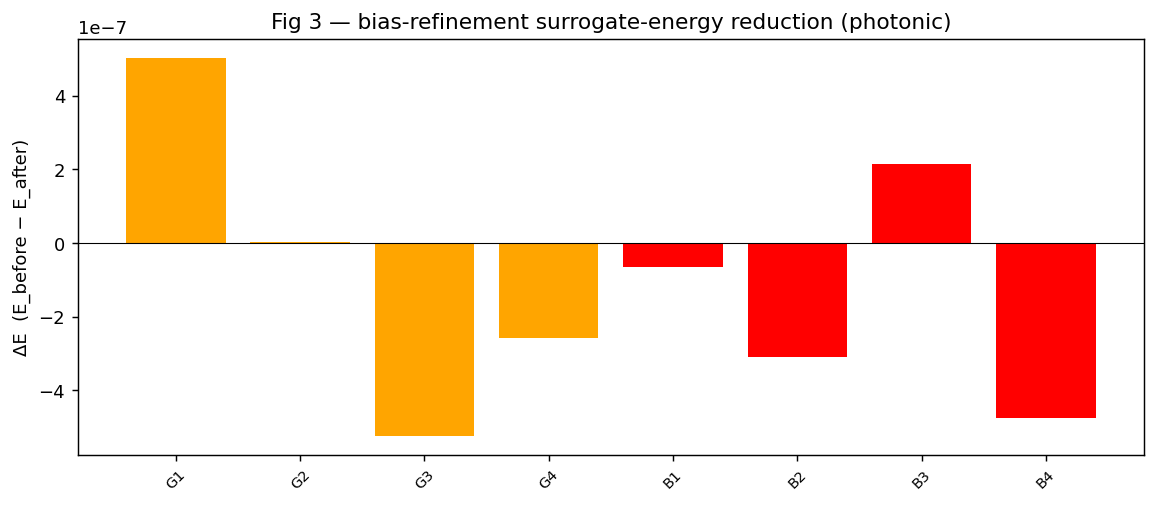
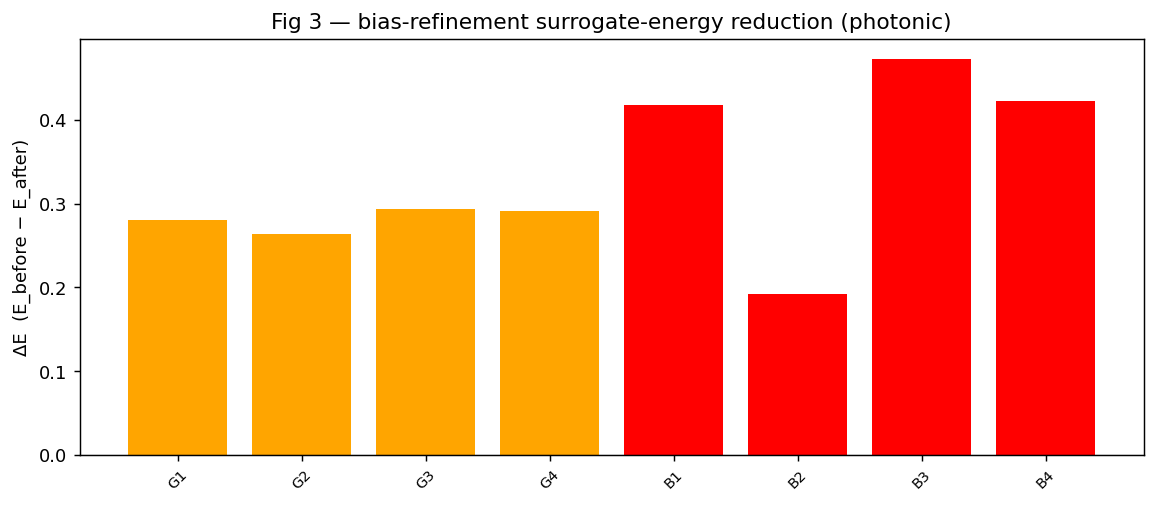
Updates with new egas

diff --git a/papers/EGAS/lib/photonic_circuits.py b/papers/EGAS/lib/photonic_circuits.py
@@ -7,24 +7,34 @@ import perceval as pcvl
 import torch
 import torch.nn as nn
 
-COEFFS = (0.1, 0.3, 0.5, 0.7, 1.0)
+COEFFS = (
+    0.1 * torch.pi,
+    0.3 * torch.pi,
+    0.5 * torch.pi,
+    0.7 * torch.pi,
+    1.0 * torch.pi,
+)
+# Fixed beam-splitter angles selected by EGAS as part of the circuit architecture.
+# Perceval's default BS convention maps these to 75%, 50%, and 25% reflectivity.
+BS_ANGLES = (pi / 3, pi / 2, 2 * pi / 3)
 FIXED_PS_PHASES = {
     "PS_PI": pi,
     "PS_PI_2": pi / 2,
 }
 
 
-def build_token_pool(n_modes: int):
+def build_token_pool(n_modes: int, num_features: int):
     """Enumerate the full token pool C. Returns list of (gate, q, data_idx, r)."""
     tokens = []
     for q in range(n_modes):
-        for d in range(n_modes):
+        for d in range(num_features):
             for r in COEFFS:
                 tokens.append(("PS", q, d, r))
         tokens.append(("PS_PI", q, 0, 0.0))
         tokens.append(("PS_PI_2", q, 0, 0.0))
-    for q in range(n_modes - 1):  # CNOT (q, q+1)
-        tokens.append(("BS", q, 0, 0.0))
+    for q in range(n_modes - 1):
+        for theta in BS_ANGLES:
+            tokens.append(("BS", q, 0, theta))
     return tokens
 
 
@@ -37,7 +47,7 @@ def create_perceval_circuit(
     input_parameters = []
     trainable_parameters = []
 
-    for gate, q, _, _ in sequence:
+    for gate, q, _, value in sequence:
         if gate == "PS":
             input_param = pcvl.Parameter(f"theta{len(input_parameters)}")
             trainable_param = pcvl.Parameter(f"phi{len(trainable_parameters)}")
@@ -49,7 +59,10 @@ def create_perceval_circuit(
         elif gate in FIXED_PS_PHASES:
             circuit.add(q, pcvl.PS(FIXED_PS_PHASES[gate]))
         elif gate == "BS":
-            circuit.add([q, q + 1], pcvl.BS())
+            # ``value`` is a fixed structural angle, not a data-dependent input.
+            # Retain the original 50:50 splitter for legacy sequences stored with 0.0.
+            theta = pi / 2 if value == 0.0 else value
+            circuit.add([q, q + 1], pcvl.BS(theta=theta))
         else:
             raise ValueError(f"Unsupported photonic gate token: {gate}")
     return circuit, input_parameters, trainable_parameters
@@ -135,11 +148,23 @@ def create_quantum_module(
                 hidden = 32
             if gain is None:
                 gain = 10.0
-            self.bias = BiasMLP(
-                n_in=num_features,
-                output_size=len(input_parameters),
-                hidden=hidden,
-                gain=gain,
-            )
+            # Get current device and dtype from the existing bias (or any parameter)
+            try:
+                param = next(self.parameters())
+                device = param.device
+                dtype = param.dtype
+                self.bias = BiasMLP(
+                    n_in=num_features,
+                    output_size=len(input_parameters),
+                    hidden=hidden,
+                    gain=gain,
+                ).to(device=device, dtype=dtype)
+            except:
+                self.bias = BiasMLP(
+                    n_in=num_features,
+                    output_size=len(input_parameters),
+                    hidden=hidden,
+                    gain=gain,
+                )
 
     return QuantumModule()

diff --git a/papers/EGAS/lib/photonic_bias.py b/papers/EGAS/lib/photonic_bias.py
@@ -74,36 +74,29 @@ def refine_bias(
         n_modes=n_modes,
         num_photons=num_photons,
         computation_space=computation_space,
-    )
+    ).to(X.device)
     encoder.reset_bias(hidden=hidden, gain=gain)
     encoder = encoder.to(device)
+
+    def _states_for_energy(inputs: torch.Tensor) -> torch.Tensor:
+        """Embed every sample used to evaluate the pairwise-energy objective."""
+        if len(encoder.ps_data_indices) == 0:
+            # A circuit without data-dependent phases produces one fixed state.
+            state = encoder(torch.zeros(1, 0, dtype=torch.float32, device=device))
+            return state.expand(len(inputs), -1)
+        return encoder(inputs)
+
     trainable_parameters = [p for p in encoder.bias.parameters() if p.requires_grad]
     if len(trainable_parameters) == 0:
         with torch.no_grad():
-            # Evaluate with a single sample and replicate if no input indices
-            dummy_input = (
-                torch.zeros(1, 0, dtype=torch.float32, device=device)
-                if len(encoder.ps_data_indices) == 0
-                else Xt[:1]
-            )
-            states = encoder(dummy_input)
-            if len(encoder.ps_data_indices) == 0:
-                states = states.repeat(len(Xt), 1)
+            states = _states_for_energy(Xt)
             E_before = pairwise_energy(states, yt).item()
         return encoder, E_before, E_before
 
     opt = torch.optim.RMSprop(encoder.bias.parameters(), lr=lr)
 
     with torch.no_grad():
-        # Evaluate with a single sample and replicate if no input indices
-        dummy_input = (
-            torch.zeros(1, 0, dtype=torch.float32, device=device)
-            if len(encoder.ps_data_indices) == 0
-            else Xt[:1]
-        )
-        states = encoder(dummy_input)
-        if len(encoder.ps_data_indices) == 0:
-            states = states.repeat(len(Xt), 1)
+        states = _states_for_energy(Xt)
         E_before = pairwise_energy(states, yt).item()
 
     rng = np.random.default_rng(seed)
@@ -130,14 +123,7 @@ def refine_bias(
         opt.step()
         if ep >= epochs - avg_last:
             with torch.no_grad():
-                dummy_input = (
-                    torch.zeros(1, 0, dtype=torch.float32, device=device)
-                    if len(encoder.ps_data_indices) == 0
-                    else Xt[:1]
-                )
-                states = encoder(dummy_input)
-                if len(encoder.ps_data_indices) == 0:
-                    states = states.repeat(len(Xt), 1)
+                states = _states_for_energy(Xt)
                 recent.append(pairwise_energy(states, yt).item())
     E_after = float(np.mean(recent)) if recent else E_before
     return encoder, E_before, E_after

diff --git a/papers/EGAS/lib/runner.py b/papers/EGAS/lib/runner.py
@@ -98,7 +98,7 @@ def _run_photonic_eval(cfg, run_dir, logger):
         seed=seed,
     )
 
-    pool = build_token_pool(n_modes)
+    pool = build_token_pool(n_modes, X.shape[-1])
 
     # Photonic EGAS search on a fixed sample batch drawn from the first split's train set.
     rng = np.random.default_rng(seed)
@@ -530,12 +530,13 @@ def _run_egas_eval(cfg, run_dir, logger):
     dcfg, ecfg, bcfg, vcfg = cfg["dataset"], cfg["egas"], cfg["bias"], cfg["eval"]
     name = dcfg["name"]
     n_qubits = int(dcfg.get("n_qubits", 8))
-    pool = build_token_pool(n_qubits)
+
     X, y = load_dataset(name, data_root=dcfg["root"], n_components=n_qubits, seed=seed)
     from .data import (
         load_dataset_raw_for_wasserstein,
     )
 
+    pool = build_token_pool(n_qubits, X.shape[-1])
     X_wasser, y_wasser = load_dataset_raw_for_wasserstein(
         name, data_root=dcfg["root"], seed=seed
     )

diff --git a/papers/EGAS/lib/circuits.py b/papers/EGAS/lib/circuits.py
@@ -30,11 +30,11 @@ NONPARAM_1Q = ("H", "I")
 COEFFS = (0.1, 0.3, 0.5, 0.7, 1.0)
 
 
-def build_token_pool(n_qubits: int):
+def build_token_pool(n_qubits: int, num_features: int):
     """Enumerate the full token pool C. Returns list of (gate, q, data_idx, r)."""
     tokens = []
     for q in range(n_qubits):
-        for d in range(n_qubits):
+        for d in range(num_features):
             for r in COEFFS:
                 for g in PARAM_1Q:
                     tokens.append((g, q, d, r))
@@ -44,7 +44,7 @@ def build_token_pool(n_qubits: int):
     for q in range(n_qubits):  # CNOT (q, q+1)
         tokens.append(("CNOT", q, 0, 0.0))
     for q in range(n_qubits):  # MultiRZ (q, q+1) parameterized
-        for d in range(n_qubits):
+        for d in range(num_features):
             for r in COEFFS:
                 tokens.append(("MultiRZ", q, d, r))
     return tokens

diff --git a/papers/EGAS/utils/run_fig3_repeats.py b/papers/EGAS/utils/run_fig3_repeats.py
@@ -30,13 +30,14 @@ TOPK = int(sys.argv[2]) if len(sys.argv) > 2 else 10
 
 
 def main():
-    pool = build_token_pool(N_QUBITS)
+
     X, y = load_dataset(
         DATASET,
         data_root=str(ROOT.parent.parent / "data"),
         n_components=N_QUBITS,
         seed=0,
     )
+    pool = build_token_pool(N_QUBITS, X.shape[-1])
     slices = make_slices(X, y, n_train=400, n_test=50, n_repeats=1, seed=0)
     rng = np.random.default_rng(0)
     Xtr0 = slices[0]["X_train"]

diff --git a/papers/EGAS/lib/photonic_egas.py b/papers/EGAS/lib/photonic_egas.py
@@ -206,6 +206,9 @@ def run_egas(
                 loss.item(),
                 len(buffer),
             )
+        print(
+            f"Iter {history["iter"][-1]} add a min_energy: {history["min_energy"][-1]}, a mean_energy: {history["mean_energy"][-1]} and loss: {history["loss"][-1]}."
+        )
     return gpt, history, buffer
 
 

diff --git a/papers/EGAS/tests/test_statevec.py b/papers/EGAS/tests/test_statevec.py
@@ -44,4 +44,4 @@ def test_pairwise_energy_in_unit_range():
 
 def test_token_pool_size():
     # n=8: 3*8*8*5 (param 1q) + 2*8 (H,I) + 8 (CNOT) + 8*8*5 (MultiRZ) = 1304
-    assert len(build_token_pool(8)) == 1304
+    assert len(build_token_pool(8, 8)) == 1304
